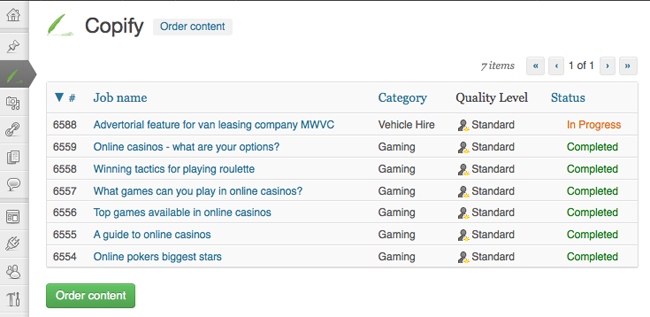
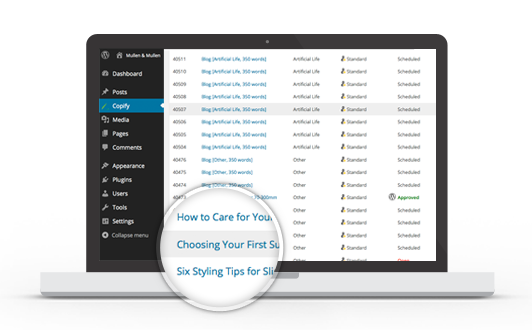
Squashed commit of the following:
commit 46d8c267d50ed8b4c0ead60c2a55869d63334172
Author: Rob McVey <robmcvey@gmail.com>
Date:   Tue Jul 1 12:26:20 2014 +0100

    small readme change regarding screenshots

commit e8f4291f4168be02d0d4c545725d152971e21d97
Merge: b840b4b 7c4909a
Author: Rob McVey <robmcvey@gmail.com>
Date:   Tue Jul 1 12:15:00 2014 +0100

    Merge branch 'svn'

    Conflicts:
    	basics.php
    	copify.php

commit 7c4909ae315fc36022ebd3ab1ef7ad070895c835
Author: Rob McVey <robmcvey@gmail.com>
Date:   Tue Jul 1 12:13:41 2014 +0100

    Conflicts:
    	basics.php
    	copify.php

commit b840b4b6b2b6b1acb153c68234a069795f7b3344
Author: Rob McVey <robmcvey@gmail.com>
Date:   Tue Jul 1 12:09:31 2014 +0100

    Dev mode off

commit 1626166b45590aaebbfb6963d512a5e48e616ec0
Author: Rob McVey <robmcvey@gmail.com>
Date:   Tue Jul 1 12:09:06 2014 +0100

    Changing screen shots

commit f82289ecb4488f3df8b2aebb458c864fabf3b123
Author: Rob McVey <robmcvey@gmail.com>
Date:   Tue Jul 1 10:33:55 2014 +0100

    Another readme change

commit 347e6ecef0b0dda422819768865cc3ccdfe8bcf6
Author: Rob McVey <robmcvey@gmail.com>
Date:   Tue Jul 1 10:29:52 2014 +0100

    README

commit dadbe12687a9caf207a2289adf381892ca0ba560
Merge: a7879d2 42afef3
Author: Rob McVey <robmcvey@gmail.com>
Date:   Tue Jul 1 10:26:00 2014 +0100

    Merge branch 'master' of github.com:copify/copify-wordpress

commit 42afef3bd2f3dc95a501113e2725820105ed4f38
Merge: 7466280 e4925c7
Author: Rob McVey <robmcvey@gmail.com>
[…]

diff --git a/copify.php b/copify.php
@@ -2,7 +2,7 @@
 /*
 Plugin Name: Copify
 Plugin URI: https://github.com/copify/copify-wordpress
-Description: Order quality blog posts from Copify's network of professional writers
+Description: Automatically publish unique, relevant content every week from Copify's team of professional writers.
 Version: 1.0.5
 Author: Rob McVey
 Author URI: http://uk.copify.com/
@@ -11,7 +11,7 @@ License: GPL2
 Copyright 2012  Rob McVey  (email:rob@copify.com)
 
 This program is free software; you can redistribute it and/or modify
-it under the terms of the GNU General Public License, version 2, as 
+it under the terms of the GNU General Public License, version 2, as
 published by the Free Software Foundation.
 
 This program is distributed in the hope that it will be useful,
@@ -42,7 +42,7 @@ add_action('admin_init', array($CopifyWordpress, 'CopifyCssAndScripts'));
 // Run requests through our custom method
 add_action('parse_request', array($CopifyWordpress, 'CopifyRequestFilter'));
 
-// Add our admin menu 
+// Add our admin menu
 add_action('admin_menu', array($CopifyWordpress, 'CopifyAdminMenu'));
 
 // When a post is deleted, remove the flag in options so we can re-add to drafts if needed

diff --git a/basics.php b/basics.php
@@ -1,33 +1,33 @@
 <?php
-// 
+//
 //  basics.php
 //  copify-wordpress
-//  
+//
 //  Created by Rob Mcvey on 2014-06-17.
 //  Copyright 2014 Rob McVey. All rights reserved.
-// 
+//
 
 // Dev mode
-if (!defined('COPIFY_DEVMODE')) { 
-	define('COPIFY_DEVMODE', false); 
+if (!defined('COPIFY_DEVMODE')) {
+	define('COPIFY_DEVMODE', false);
 }
 
 // Directory seperator for this system
-if (!defined('COPIFY_DS')) { 
-	define('COPIFY_DS', DIRECTORY_SEPARATOR); 
+if (!defined('COPIFY_DS')) {
+	define('COPIFY_DS', DIRECTORY_SEPARATOR);
 }
 
 // Path to plugin
-if (!defined('COPIFY_PATH')) { 
-	define('COPIFY_PATH',  __DIR__); 
+if (!defined('COPIFY_PATH')) {
+	define('COPIFY_PATH',  __DIR__);
 }
 
 // Lib path
-if (!defined('COPIFY_LIB')) { 
-	define('COPIFY_LIB',  COPIFY_PATH . COPIFY_DS . 'Lib' . COPIFY_DS); 
+if (!defined('COPIFY_LIB')) {
+	define('COPIFY_LIB',  COPIFY_PATH . COPIFY_DS . 'Lib' . COPIFY_DS);
 }
 
 // View path
-if (!defined('COPIFY_VIEWS')) { 
-	define('COPIFY_VIEWS',  COPIFY_PATH . COPIFY_DS . 'Views' . COPIFY_DS); 
+if (!defined('COPIFY_VIEWS')) {
+	define('COPIFY_VIEWS',  COPIFY_PATH . COPIFY_DS . 'Views' . COPIFY_DS);
 }
